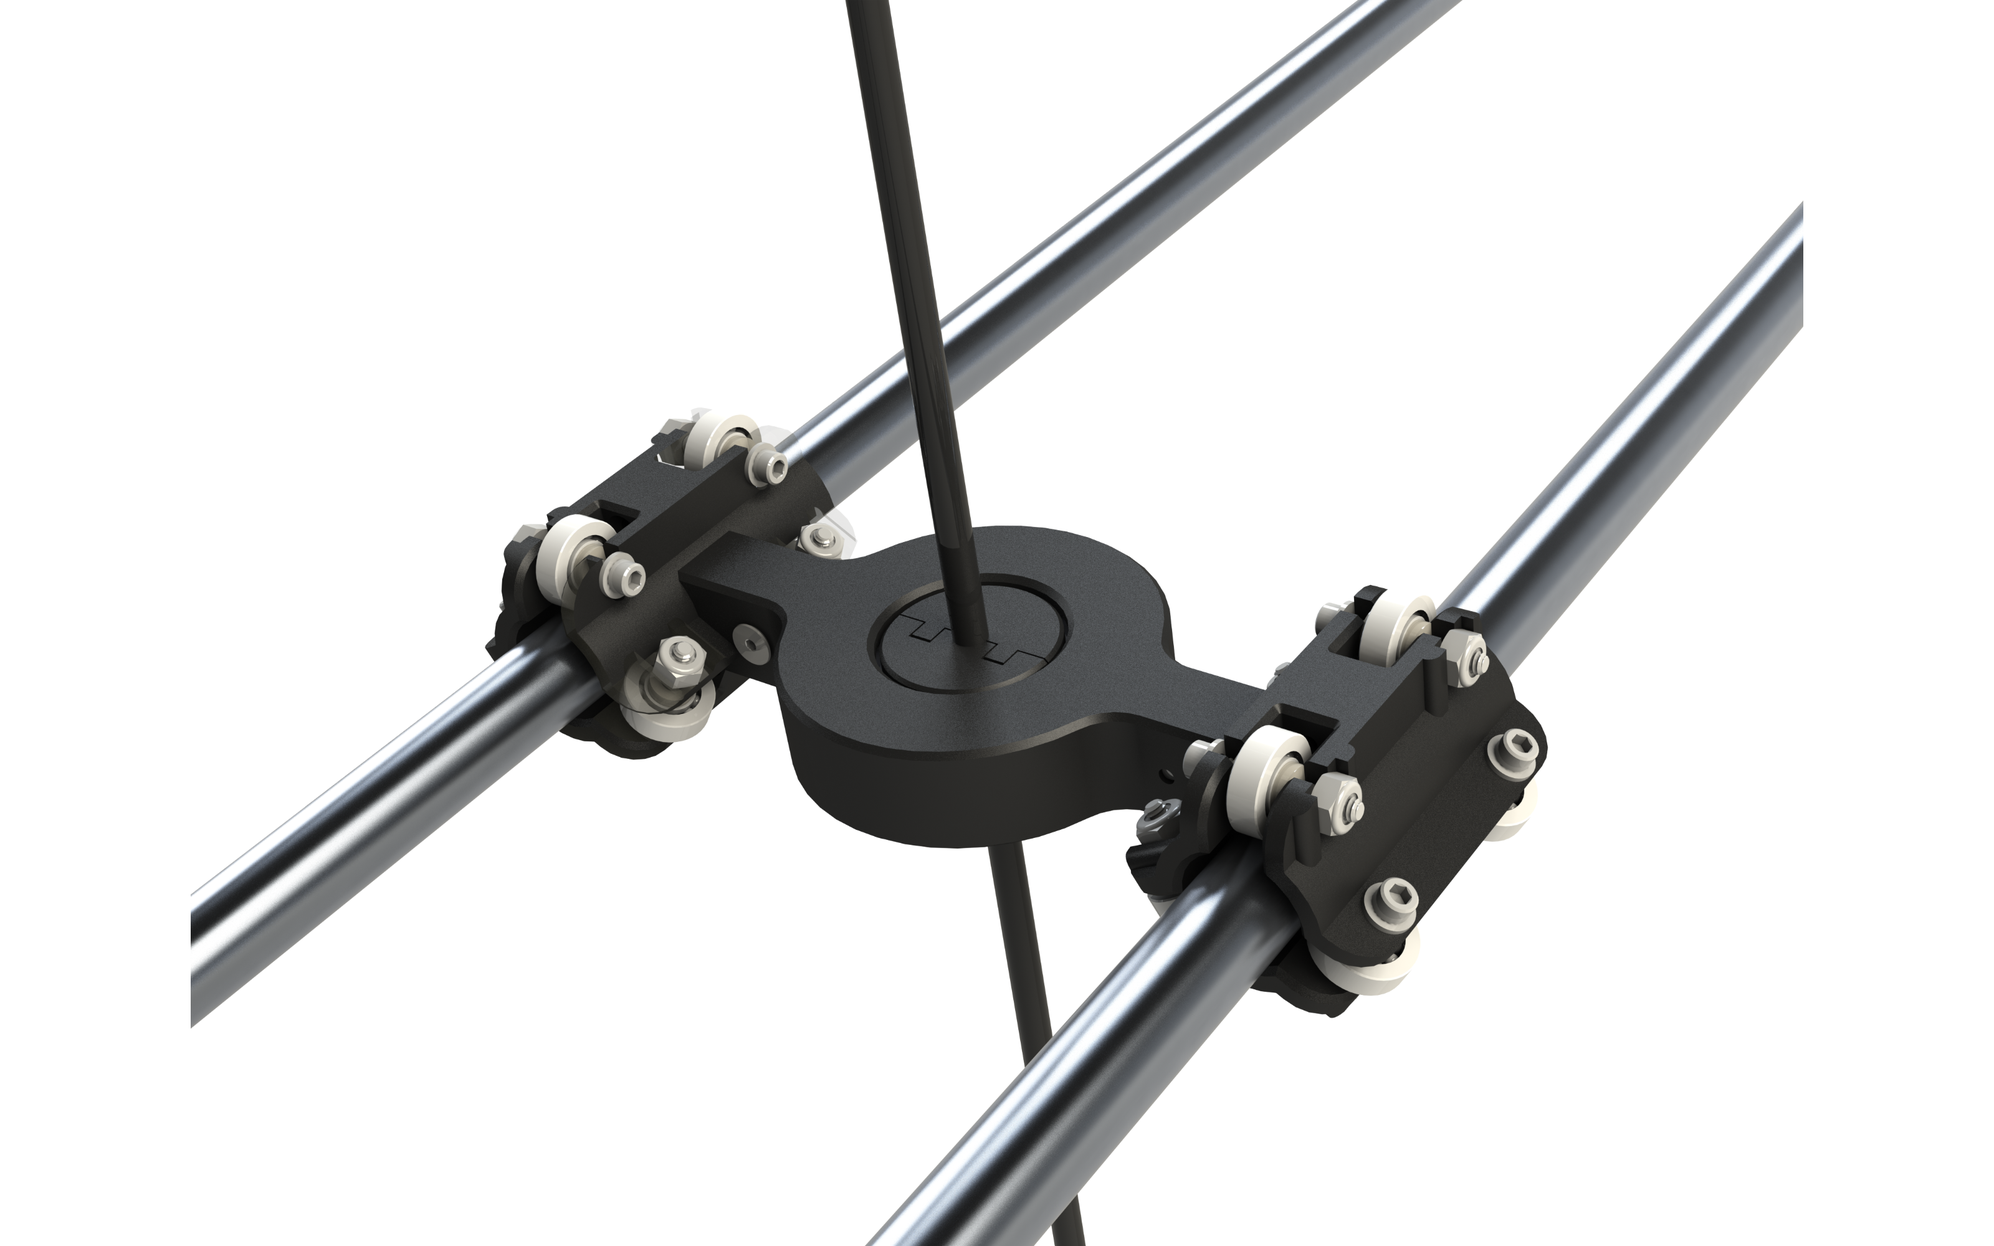
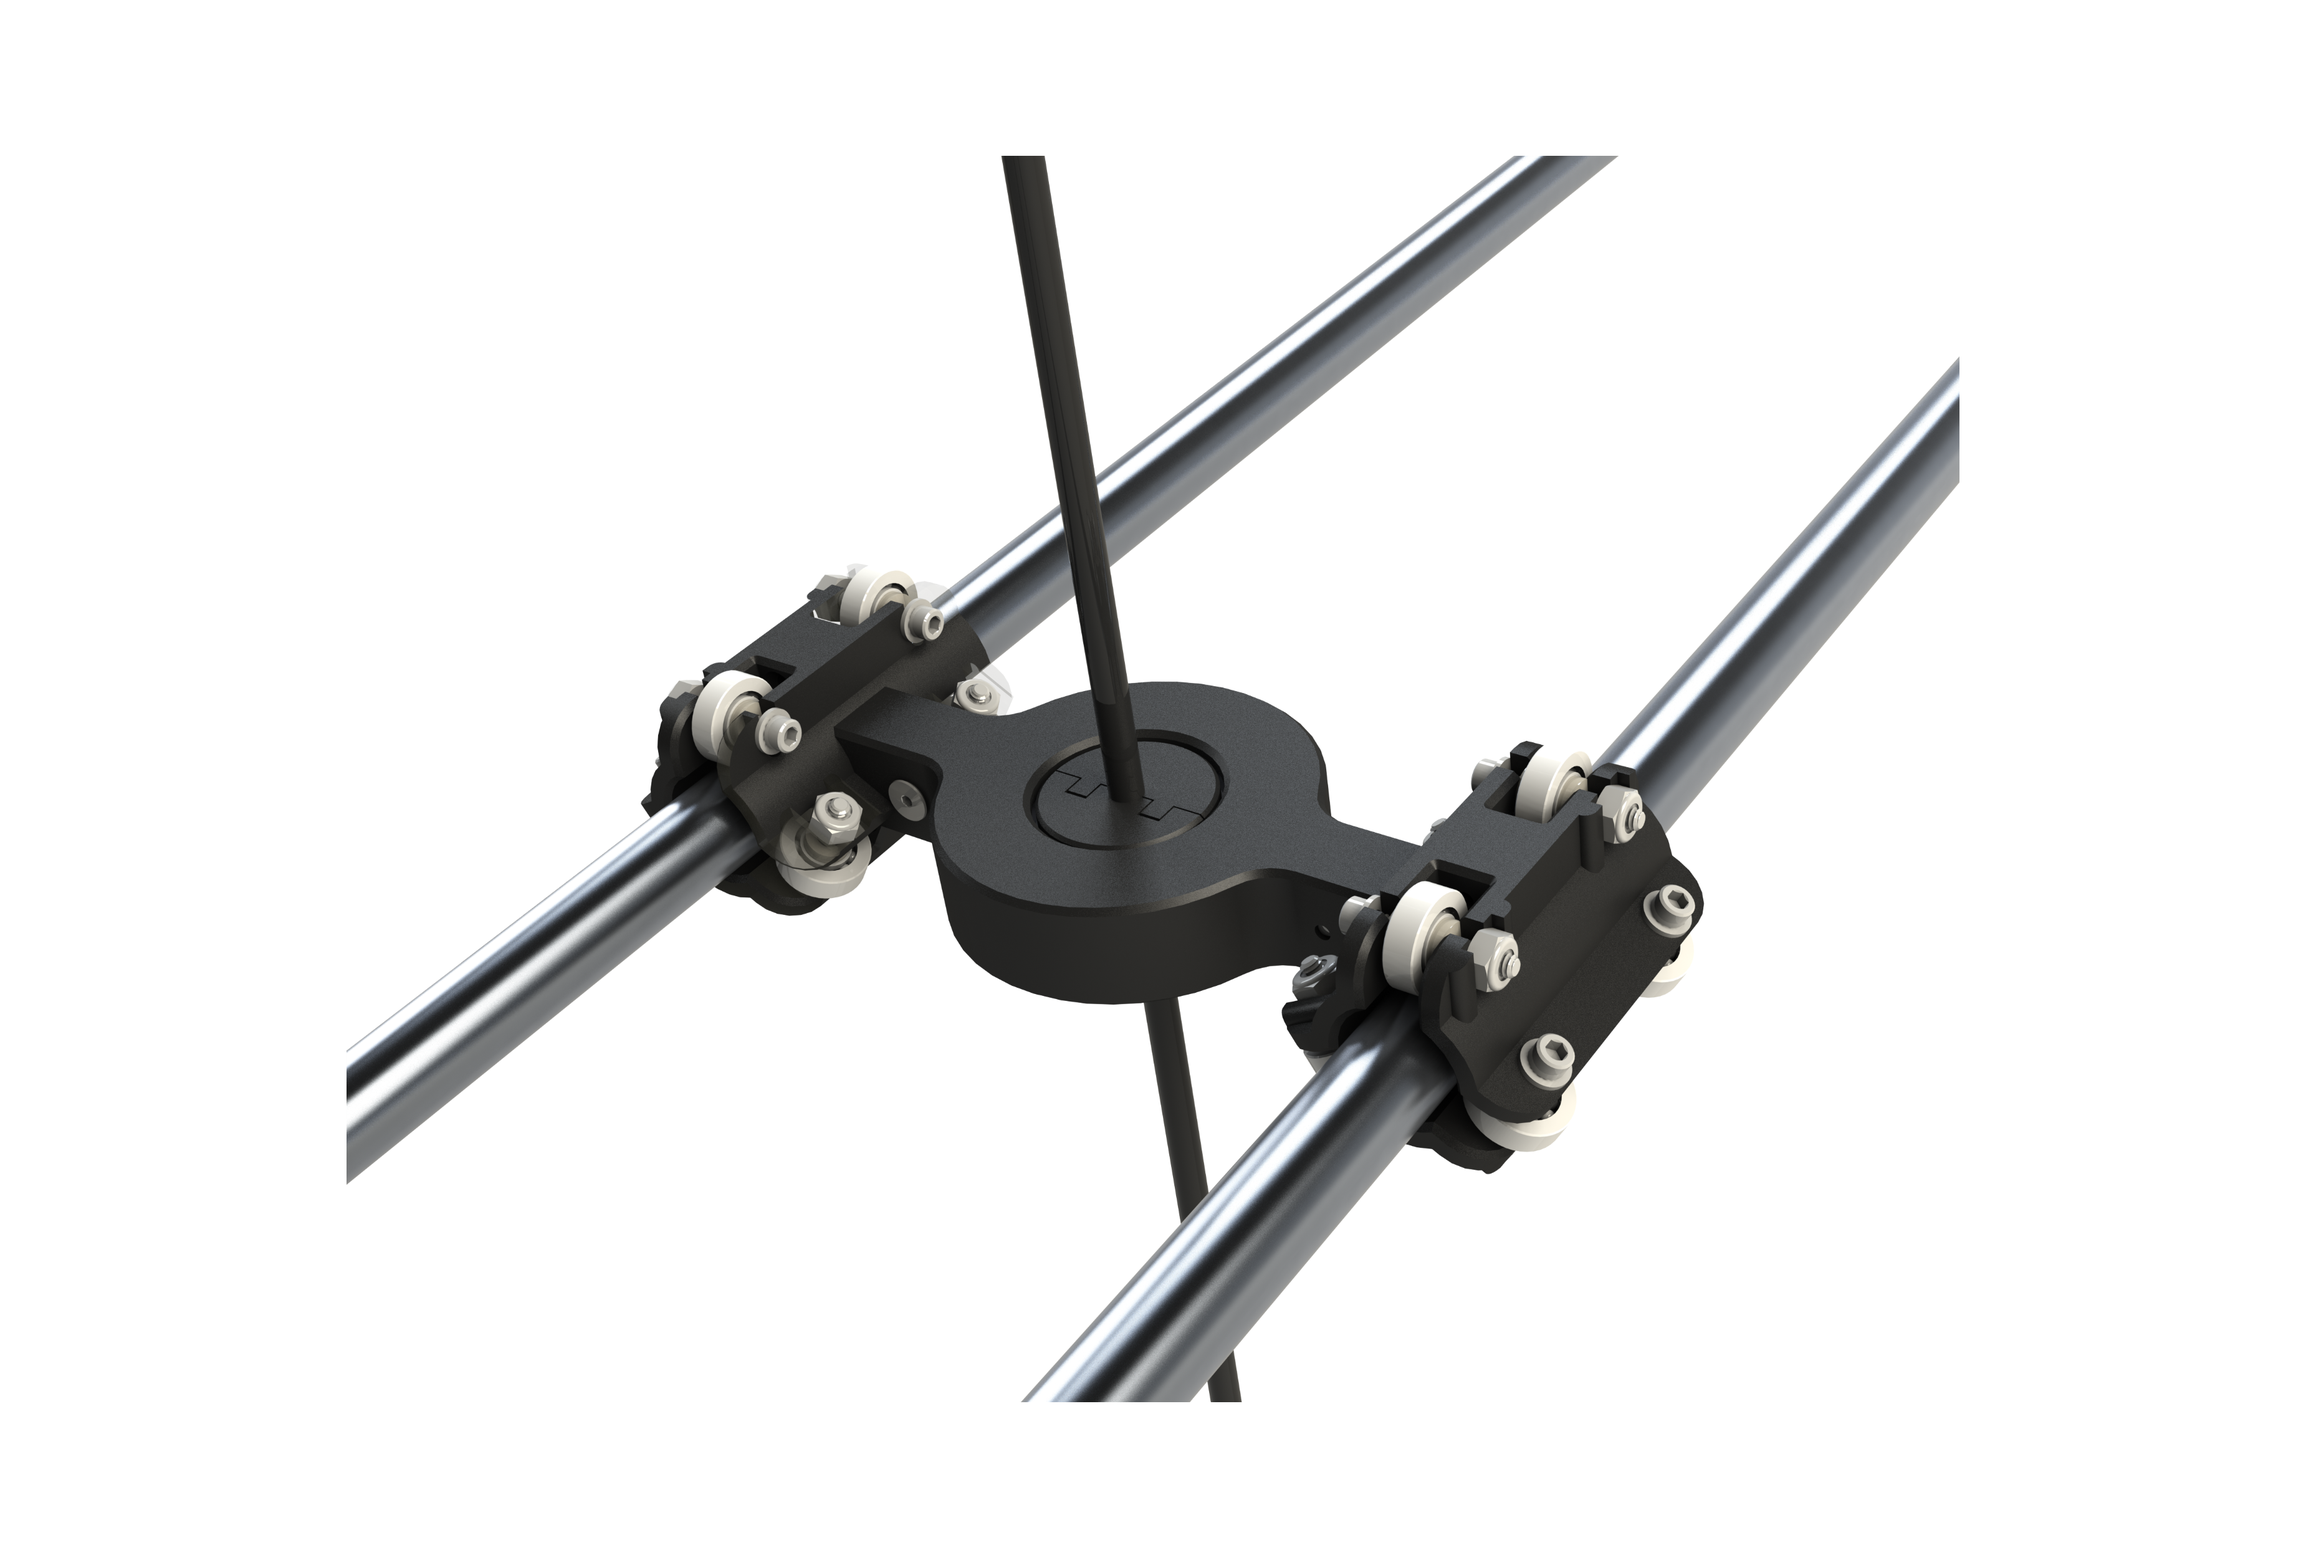
Added 250 pixels of padding to the top of hero images for all projects.

Changed region(s): [[0.0938, 0.0, 0.9062, 1.0], [0.4062, 0.0, 0.4688, 0.124], [0.4375, 0.155, 0.4688, 0.217]]

diff --git a/dev/scripts/pad_hero_images.py b/dev/scripts/pad_hero_images.py
@@ -20,7 +20,7 @@ Requirements:
 Usage (from repo root):
 
   # Single project
-  python dev/scripts/pad_hero_images.py --project nc4touch-behavioral-apparatus
+  python dev/scripts/pad_hero_images.py --project instantaneous-cue-rotation-arena
 
   # All projects
   python dev/scripts/pad_hero_images.py --all
